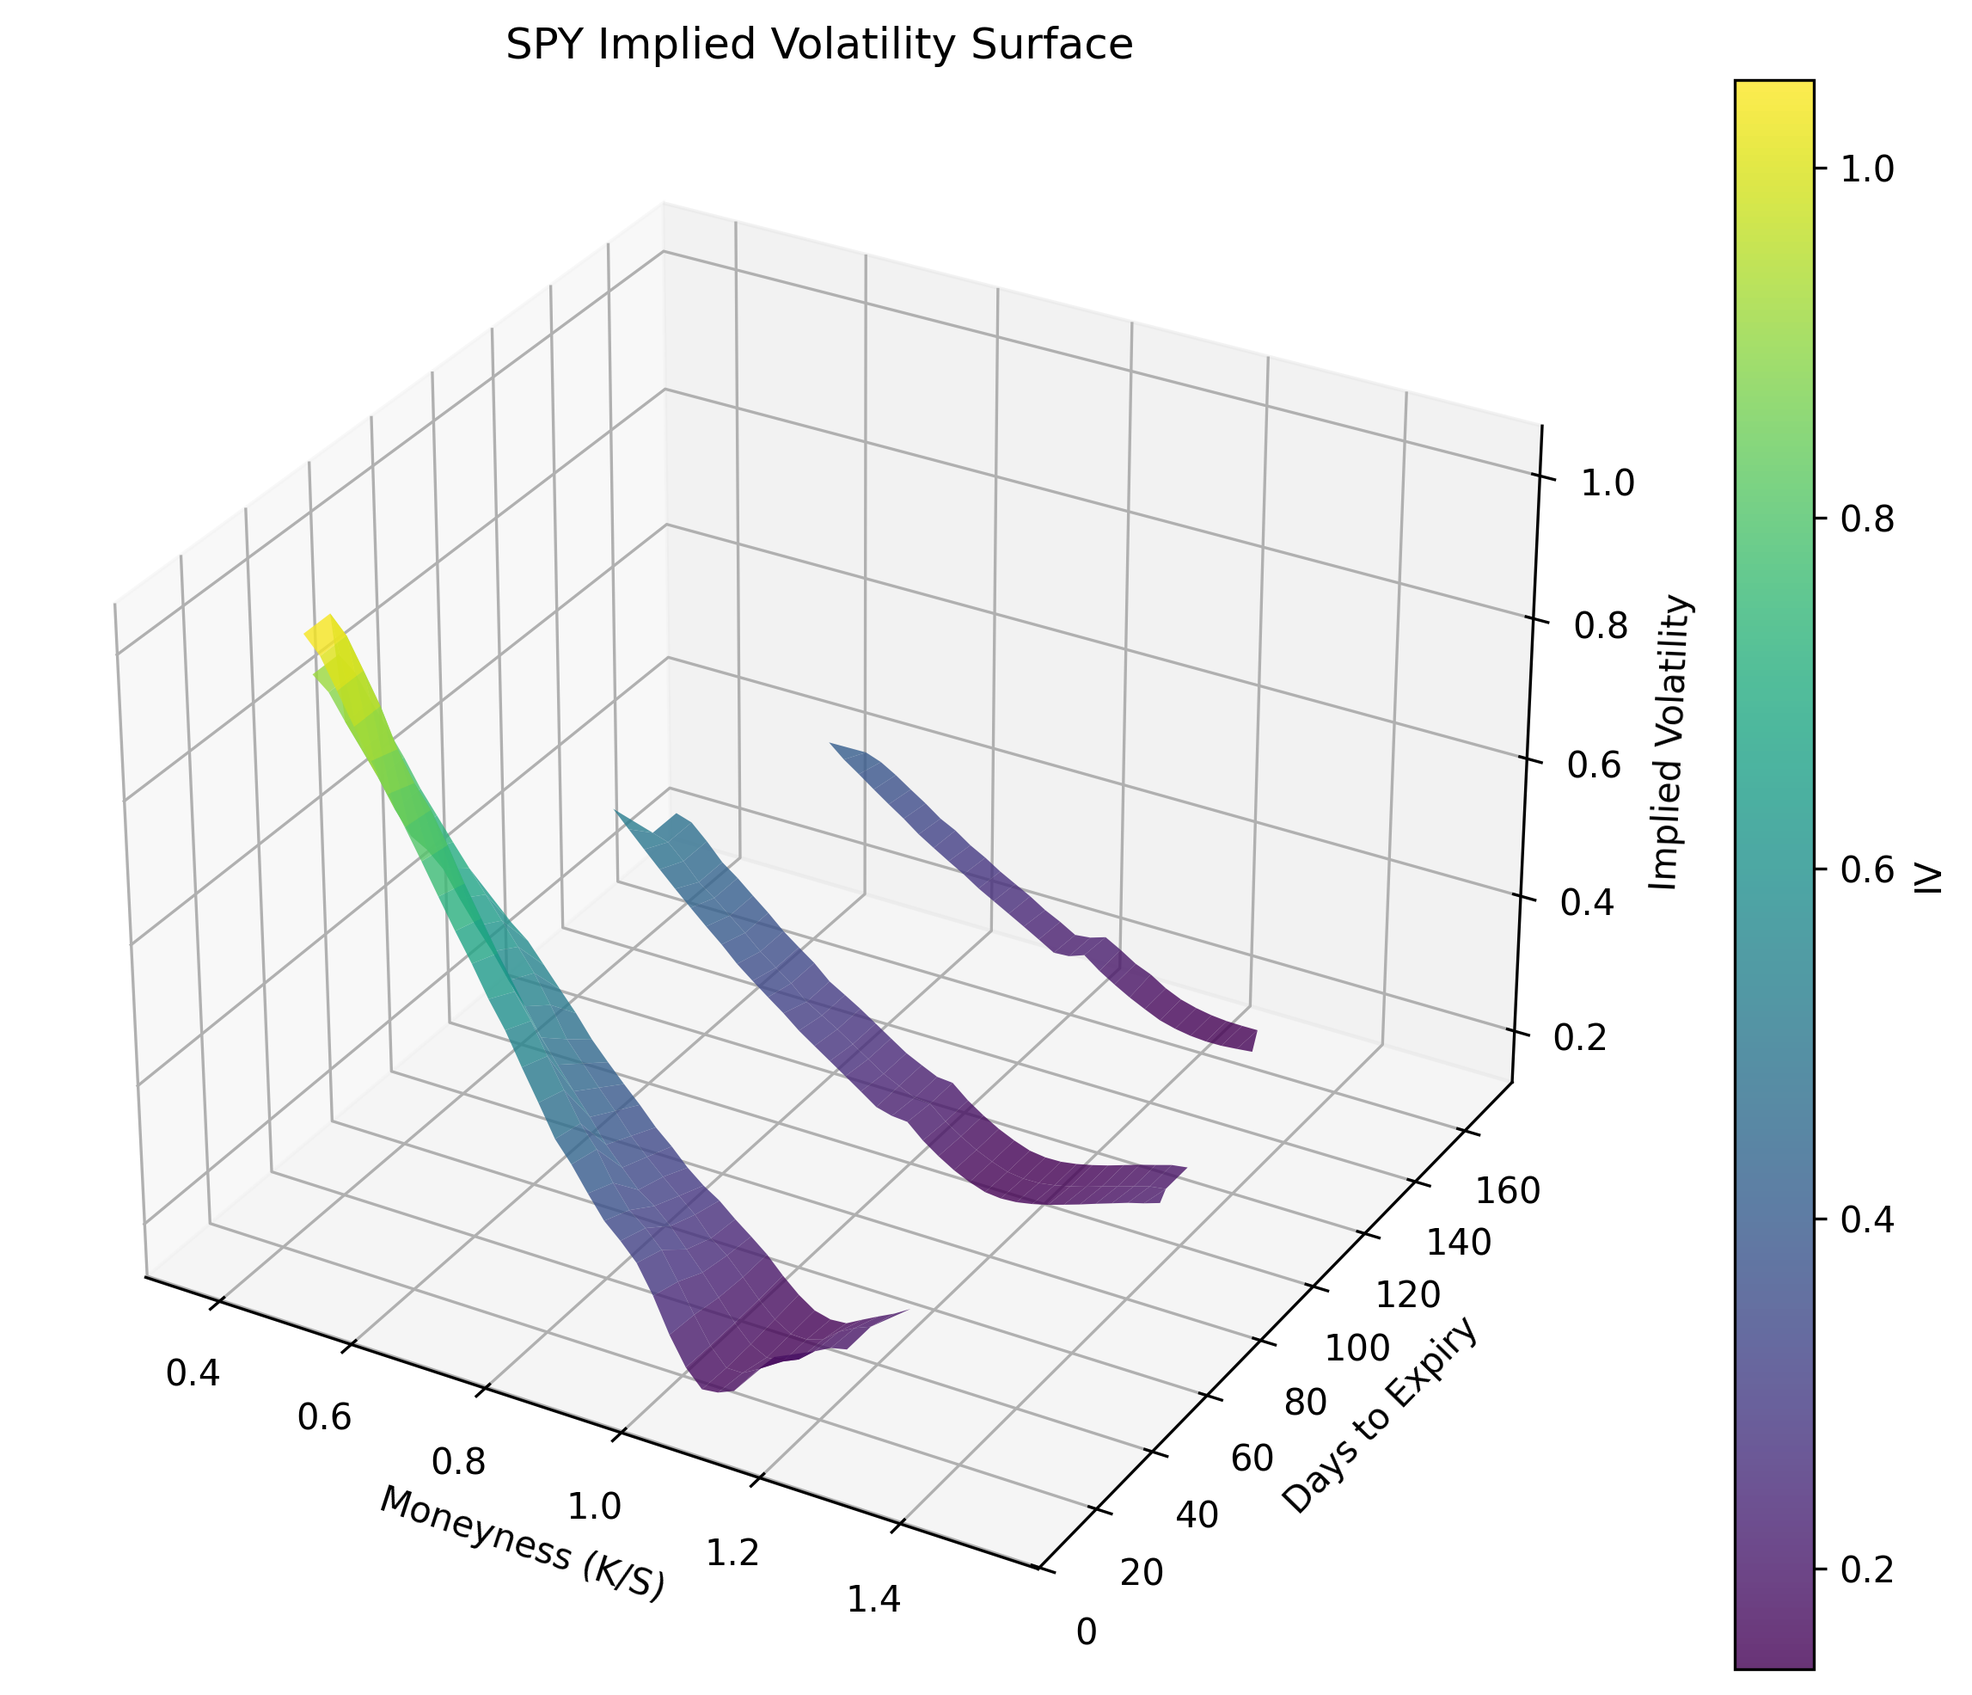
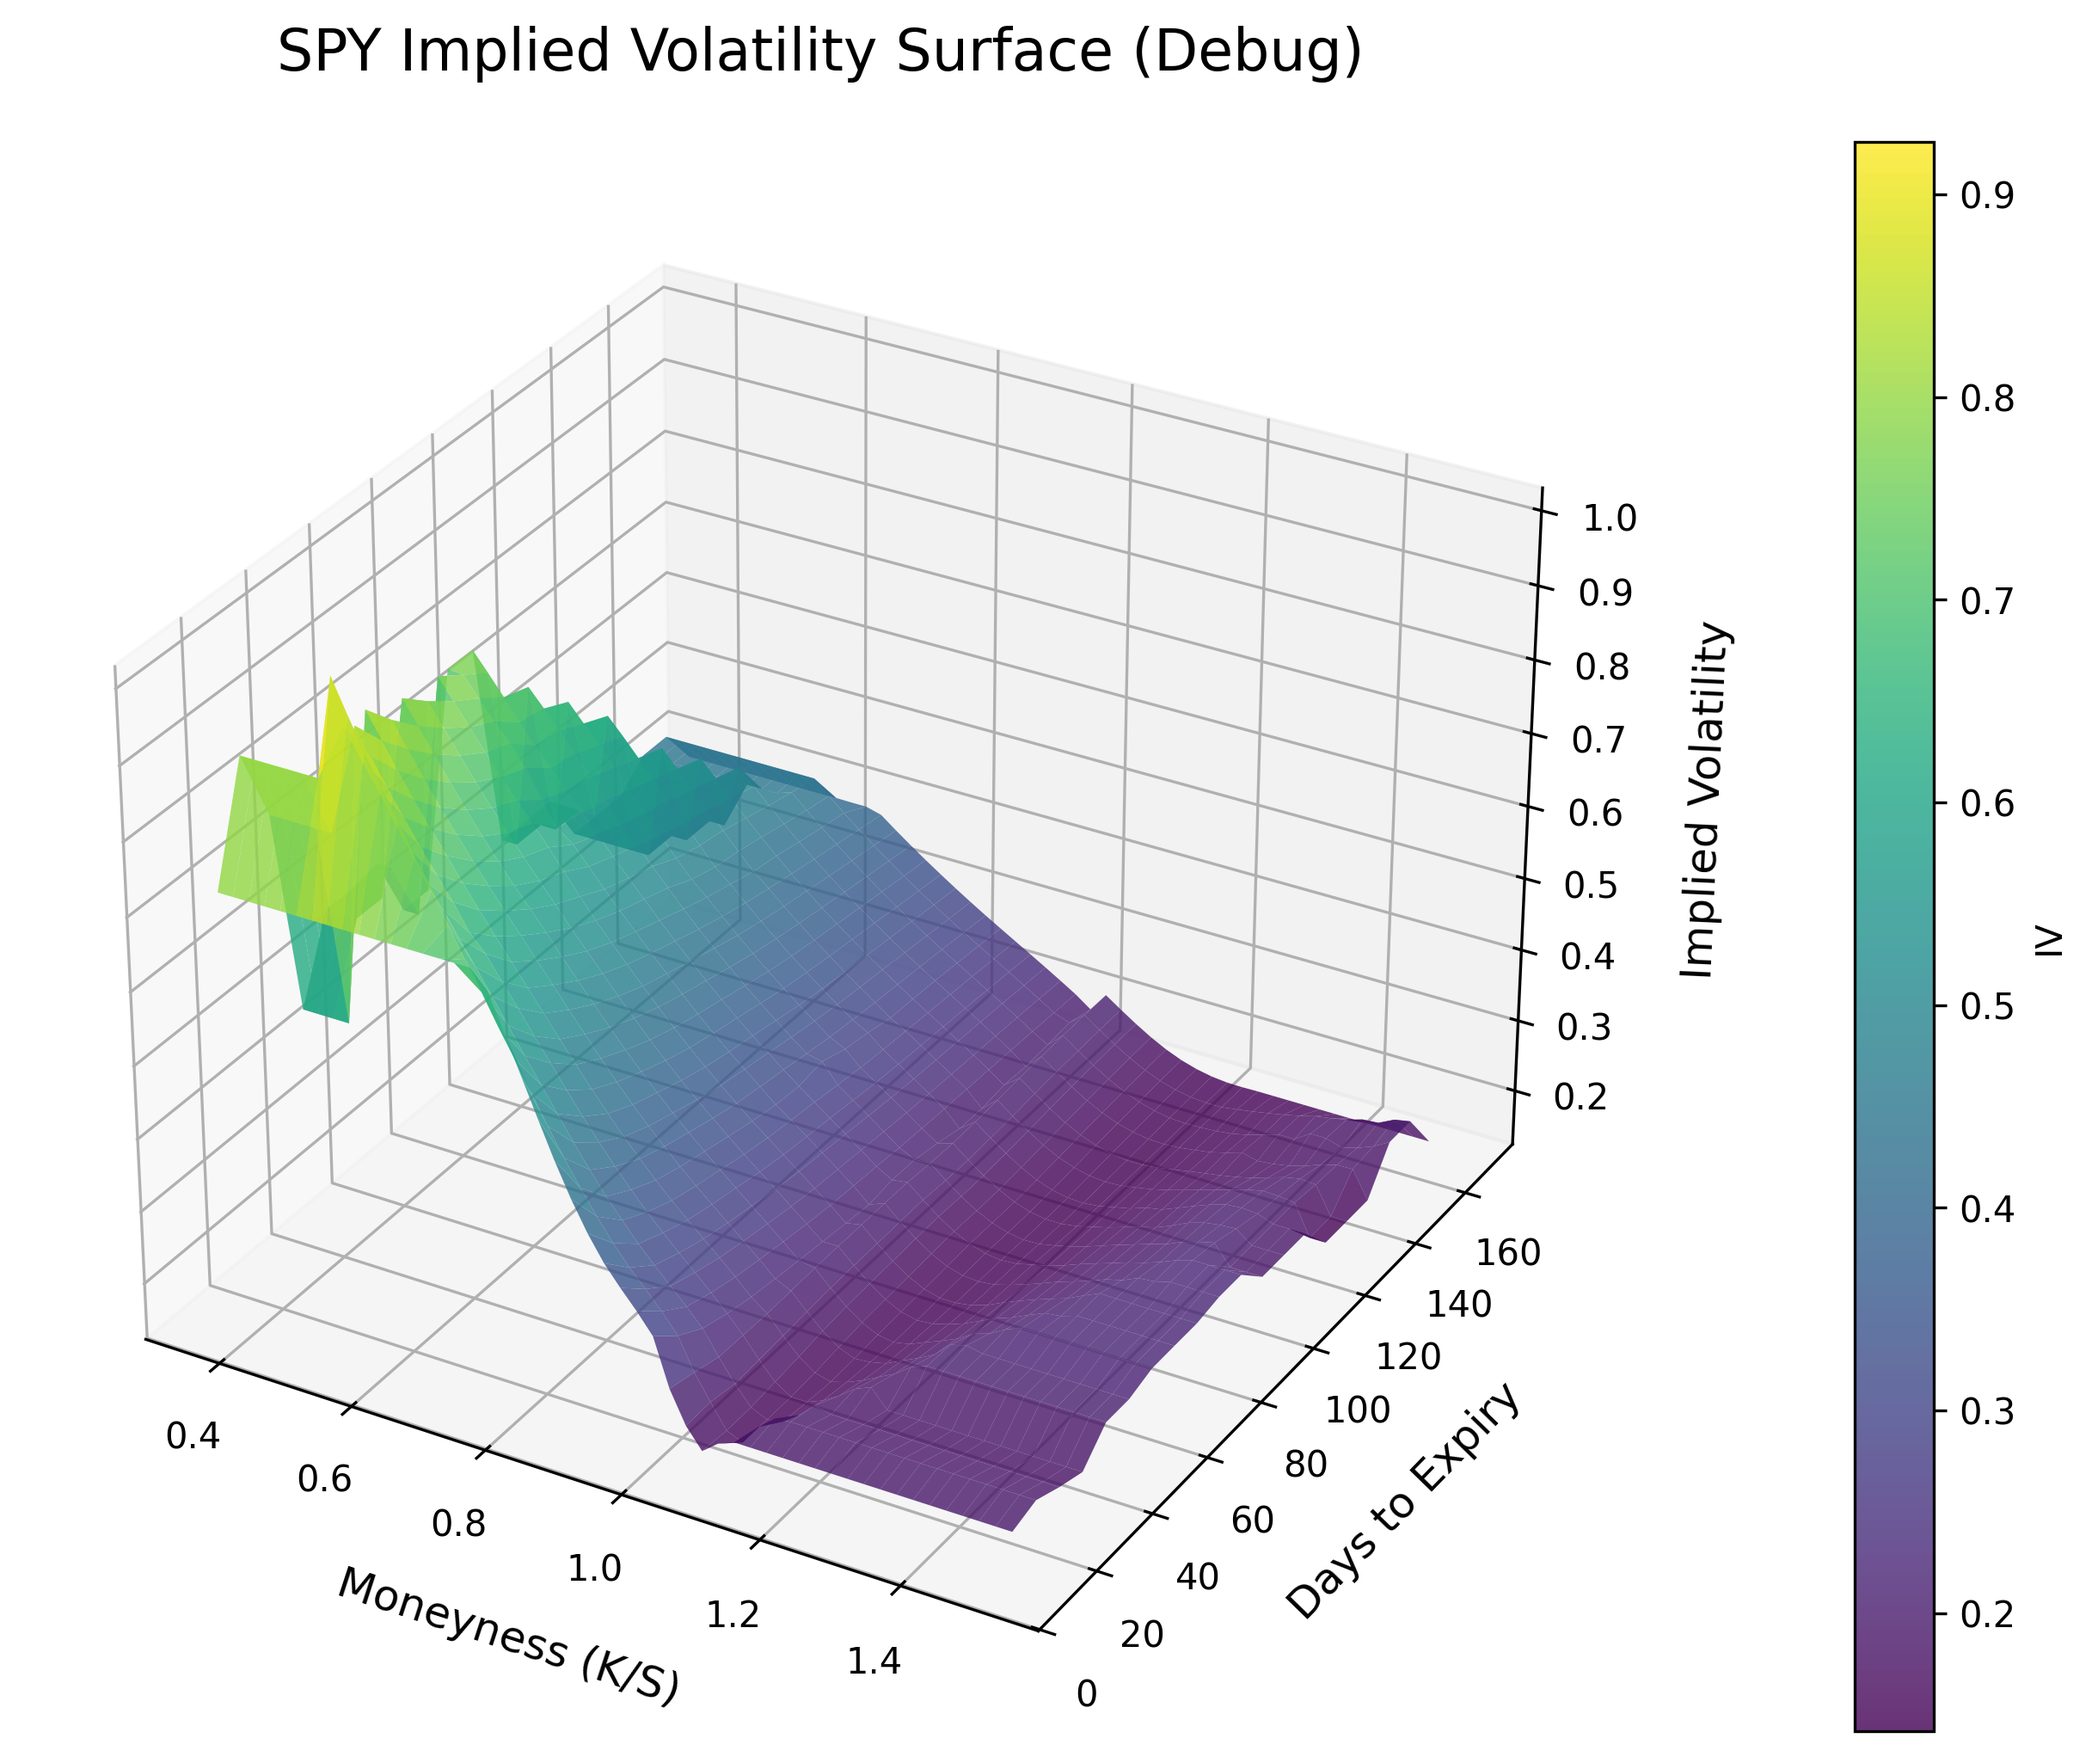
fix(vol-surface): debug data pipeline and improve plot

diff --git a/build_surface.py b/build_surface.py
@@ -1,4 +1,4 @@
-"""Build and plot SPY implied volatility surface."""
+"""Debug SPY implied volatility surface pipeline."""
 
 import os
 import numpy as np
@@ -17,7 +17,7 @@ MIN_DAYS = 7
 MAX_DAYS = 180
 RISK_FREE_RATE = 0.0
 OUTPUT_DIR = "/home/openclaw_daemon/.openclaw/workspace-engineer/projects/QuantClaw/exports/plots"
-OUTPUT_FILE = os.path.join(OUTPUT_DIR, "vol_surface.png")
+OUTPUT_FILE = os.path.join(OUTPUT_DIR, "vol_surface_debug.png")
 
 
 # Ensure output dir exists
@@ -57,6 +57,7 @@ def fetch_spy_option_chain() -> pd.DataFrame:
 def filter_chain(df: pd.DataFrame) -> pd.DataFrame:
     """Filter OTM options with positive bid."""
     spot = yf.Ticker(TICKER).fast_info.last_price
+    print(f"SPY spot price: {spot}")
     
     # Filter OTM calls and puts
     otm_calls = df[(df["option_type"] == "call") & (df["strike"] > spot)]
@@ -65,6 +66,7 @@ def filter_chain(df: pd.DataFrame) -> pd.DataFrame:
     
     # Filter positive bid
     otm = otm[otm["bid"] > 0]
+    print(f"Filtered {len(otm)} OTM options with positive bid.")
     
     return otm
 
@@ -83,7 +85,7 @@ def compute_implied_vols(df: pd.DataFrame) -> pd.DataFrame:
             r=RISK_FREE_RATE,
             option_type=row["option_type"],
         )
-        if iv is not None:
+        if iv is not None and not np.isnan(iv) and iv > 0:
             ivs.append({
                 "strike": row["strike"],
                 "expiry": row["expiry"],
@@ -92,34 +94,39 @@ def compute_implied_vols(df: pd.DataFrame) -> pd.DataFrame:
                 "implied_vol": iv,
             })
     
-    return pd.DataFrame(ivs)
+    iv_df = pd.DataFrame(ivs)
+    print(f"Computed {len(iv_df)} implied volatilities.")
+    print(f"IV stats: min={iv_df['implied_vol'].min():.4f}, max={iv_df['implied_vol'].max():.4f}, mean={iv_df['implied_vol'].mean():.4f}")
+    
+    return iv_df
 
 
 def build_surface_grid(iv_df: pd.DataFrame) -> tuple:
-    """Build grid for 3D surface plot."""
+    """Build grid for 3D surface plot with interpolation."""
+    from scipy.interpolate import griddata
+    
     # Unique strikes and expiries
     strikes = np.linspace(iv_df["moneyness"].min(), iv_df["moneyness"].max(), 50)
     expiries = np.linspace(iv_df["days_to_expiry"].min(), iv_df["days_to_expiry"].max(), 20)
     
     # Create grid
     strike_grid, expiry_grid = np.meshgrid(strikes, expiries)
-    vol_grid = np.full_like(strike_grid, np.nan)
     
-    # Fill grid (nearest neighbor)
-    for i, expiry in enumerate(expiries):
-        for j, strike in enumerate(strikes):
-            subset = iv_df[
-                (np.abs(iv_df["days_to_expiry"] - expiry) < 5) &
-                (np.abs(iv_df["moneyness"] - strike) < 0.02)
-            ]
-            if not subset.empty:
-                vol_grid[i, j] = subset["implied_vol"].mean()
+    # Interpolate
+    points = iv_df[["moneyness", "days_to_expiry"]].values
+    values = iv_df["implied_vol"].values
+    vol_grid = griddata(points, values, (strike_grid, expiry_grid), method="cubic", fill_value=np.nan)
+    
+    # Fill NaN with nearest
+    from scipy.interpolate import NearestNDInterpolator
+    nearest = NearestNDInterpolator(points, values)
+    vol_grid = np.where(np.isnan(vol_grid), nearest(strike_grid, expiry_grid), vol_grid)
     
     return strike_grid, expiry_grid, vol_grid
 
 
 def plot_surface(strike_grid: np.ndarray, expiry_grid: np.ndarray, vol_grid: np.ndarray) -> None:
-    """Plot 3D implied volatility surface."""
+    """Plot 3D implied volatility surface with improved styling."""
     fig = plt.figure(figsize=(12, 8))
     ax = fig.add_subplot(111, projection="3d")
     
@@ -130,13 +137,15 @@ def plot_surface(strike_grid: np.ndarray, expiry_grid: np.ndarray, vol_grid: np.
         cmap="viridis",
         edgecolor="none",
         alpha=0.8,
+        rstride=1,
+        cstride=1,
     )
     
-    ax.set_title("SPY Implied Volatility Surface")
-    ax.set_xlabel("Moneyness (K/S)")
-    ax.set_ylabel("Days to Expiry")
-    ax.set_zlabel("Implied Volatility")
-    fig.colorbar(surf, label="IV")
+    ax.set_title("SPY Implied Volatility Surface (Debug)", fontsize=16, pad=20)
+    ax.set_xlabel("Moneyness (K/S)", fontsize=12, labelpad=10)
+    ax.set_ylabel("Days to Expiry", fontsize=12, labelpad=10)
+    ax.set_zlabel("Implied Volatility", fontsize=12, labelpad=10)
+    fig.colorbar(surf, label="IV", pad=0.1)
     
     plt.savefig(OUTPUT_FILE, dpi=300, bbox_inches="tight")
     plt.close()
@@ -146,10 +155,12 @@ def main():
     """Main workflow."""
     print("Fetching SPY option chain...")
     chain = fetch_spy_option_chain()
+    print(f"Raw chain size: {len(chain)}")
     
     print("Filtering OTM options...")
     filtered = filter_chain(chain)
     filtered["mid"] = (filtered["bid"] + filtered["ask"]) / 2.0
+    print(f"Filtered chain size: {len(filtered)}")
     
     print("Computing implied volatilities...")
     iv_df = compute_implied_vols(filtered)
@@ -160,7 +171,7 @@ def main():
     print("Plotting surface...")
     plot_surface(strike_grid, expiry_grid, vol_grid)
     
-    print(f"Plot saved to {OUTPUT_FILE}")
+    print(f"Debug plot saved to {OUTPUT_FILE}")
 
 
 if __name__ == "__main__":
